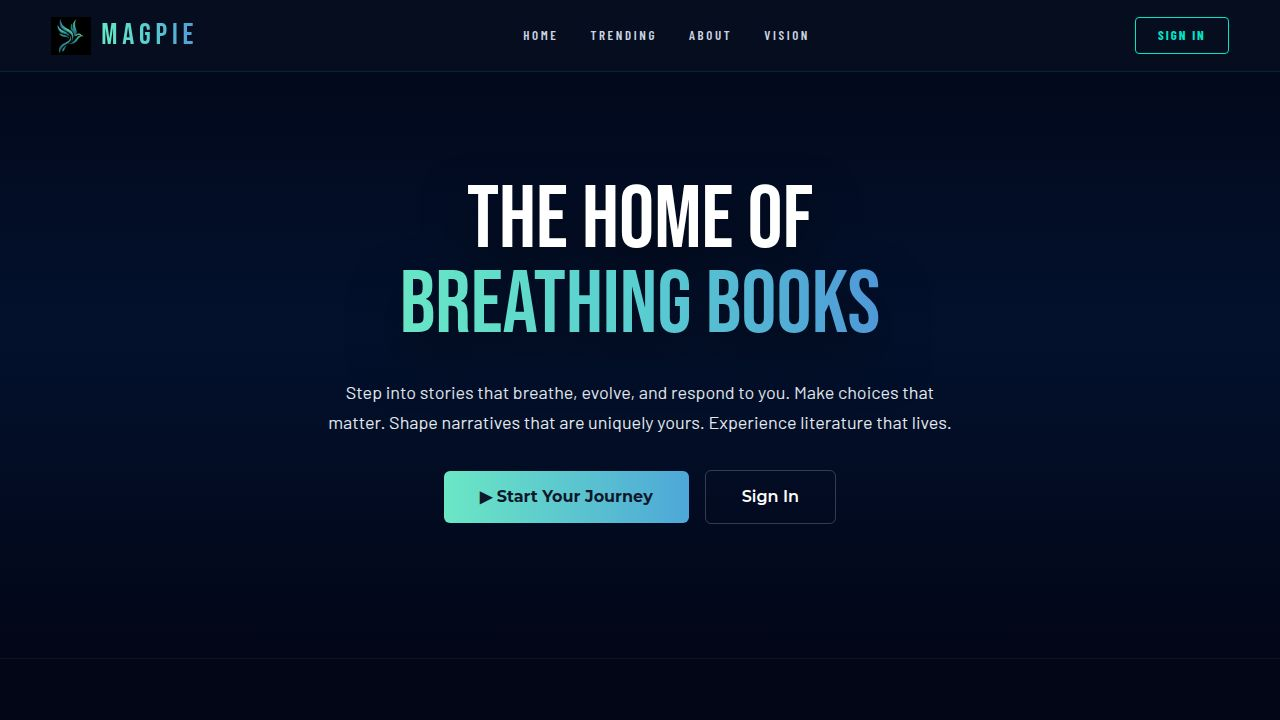
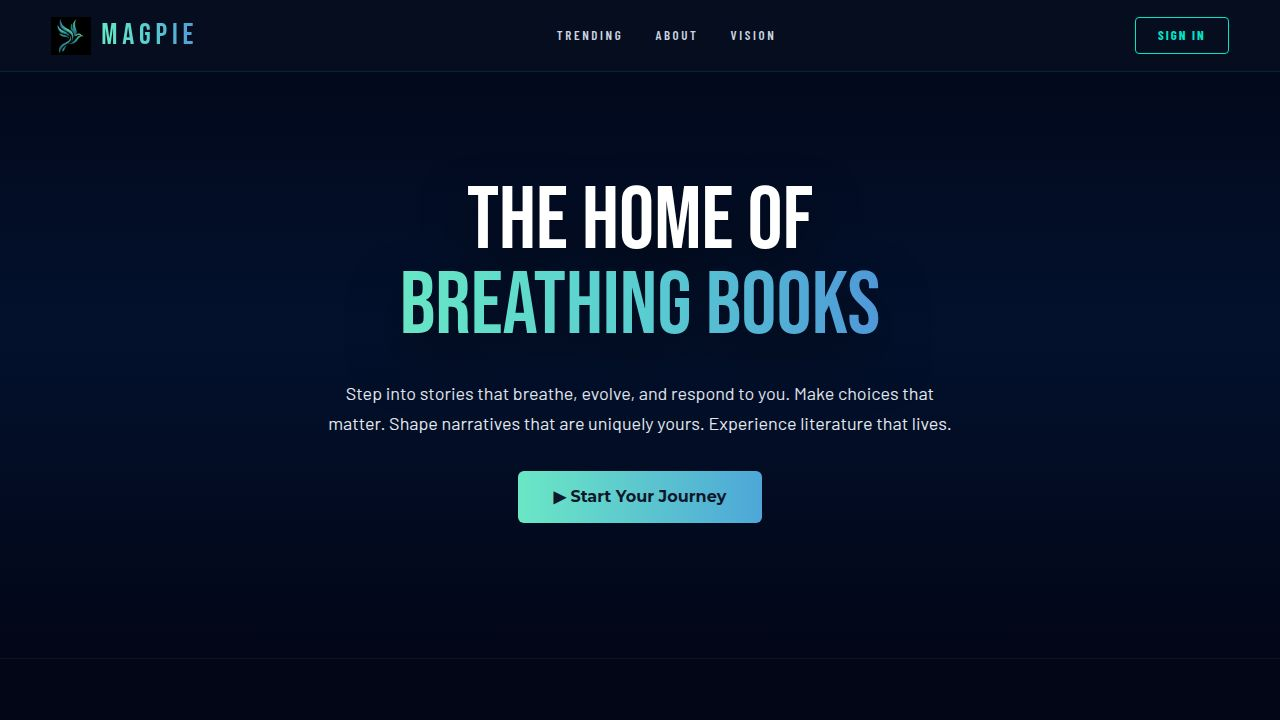
Update application port to improve preview loading and reliability
Update `artifact.toml` to change the application port from 24343 to 5000, resolving an issue where the preview was not loading due to an unsupported port.

Replit-Commit-Author: Agent
Replit-Commit-Session-Id: 26da8755-b7ae-4e0b-9bc2-f99bb690bb86
Replit-Commit-Checkpoint-Type: full_checkpoint
Replit-Commit-Event-Id: be414008-8c72-4853-94e0-64a453b1c096
Replit-Commit-Screenshot-Url: https://storage.googleapis.com/screenshot-production-us-central1/94d309d1-2d2d-47f0-b876-683d52cbe7a4/26da8755-b7ae-4e0b-9bc2-f99bb690bb86/uTkPOMZ
Replit-Helium-Checkpoint-Created: true

diff --git a/artifacts/api-server/src/lib/ai-story.ts b/artifacts/api-server/src/lib/ai-story.ts
@@ -1,7 +1,15 @@
 // ai-story.ts
-// Story continuation engine — calls the Anthropic Claude API to generate the next scene
-// based on the reader's choice, story world context, and previous scenes.
-// Implements the 4-Layer Prompt System from the story-continuation skill.
+// Story continuation engine — calls the Anthropic Claude API to generate the next scene.
+//
+// Cost optimizations applied:
+//  1. PROMPT CACHING — the large static system prompt (continuation directive + story bible)
+//     is marked with cache_control so it's only billed at 10% on cache hits.
+//  2. STORY SUMMARY — instead of passing raw transcript, we maintain a rolling compressed
+//     summary (~150 words) + only the immediately previous scene (~600 words).
+//     This keeps the user-message token count flat across a long playthrough.
+//  3. SPLIT SYSTEM PROMPT — static content is in one cached block; dynamic
+//     (arc position, late-game flags) is in a second un-cached block so the cache
+//     key stays stable for every call that shares the same story.
 
 import Anthropic from "@anthropic-ai/sdk";
 import { logger } from "./logger";
@@ -9,6 +17,10 @@ import { getStoryById, storiesData } from "./stories-data";
 
 const anthropic = new Anthropic();
 // Uses ANTHROPIC_API_KEY from environment automatically
+
+// ─────────────────────────────────────────────────────────────
+// Public types
+// ─────────────────────────────────────────────────────────────
 
 export interface Choice {
   id: string;
@@ -25,6 +37,15 @@ export interface StoryState {
     | "converging"
     | "climax"
     | "resolution";
+
+  // Rolling compressed summary of all scenes so far (kept ≤ 200 words by Claude).
+  // Replaces raw transcript to keep token cost flat across long playthroughs.
+  rollingSummary: string;
+
+  // The prose of only the most recent scene (for voice continuity).
+  // We do NOT accumulate all previous scenes — just the last one.
+  lastSceneProse: string;
+
   choicesMade: Array<{ turn: number; label: string; consequenceNote: string }>;
   relationshipStates: Record<string, string>;
   worldStateChanges: string[];
@@ -39,9 +60,9 @@ export interface GeneratedSegment {
   storyState: StoryState;
 }
 
-// ─────────────────────────────────────────────
-// Story lookup — accepts story ID or exact title
-// ─────────────────────────────────────────────
+// ─────────────────────────────────────────────────────────────
+// Story lookup
+// ─────────────────────────────────────────────────────────────
 
 function resolveStory(storyIdOrTitle: string) {
   const byId = getStoryById(storyIdOrTitle);
@@ -59,10 +80,9 @@ function resolveStory(storyIdOrTitle: string) {
   return getStoryById(slug) || null;
 }
 
-// ─────────────────────────────────────────────
+// ─────────────────────────────────────────────────────────────
 // Arc position derived from turn number
-// (matches skill's arc position guide)
-// ─────────────────────────────────────────────
+// ─────────────────────────────────────────────────────────────
 
 function deriveArcPosition(nodeIndex: number): StoryState["arcPosition"] {
   const turn = nodeIndex + 1;
@@ -74,10 +94,14 @@ function deriveArcPosition(nodeIndex: number): StoryState["arcPosition"] {
   return "resolution";
 }
 
-// ─────────────────────────────────────────────
-// Layer 3 — Continuation Directive
-// Embedded from references/continuation-directive.md
-// ─────────────────────────────────────────────
+// ─────────────────────────────────────────────────────────────
+// BLOCK 1 (CACHED) — Story bible + continuation directive
+//
+// This block is IDENTICAL for every continuation call on the
+// same story, so it will hit the cache after the first request.
+// At ~1 000–1 500 tokens it saves ~90% on those tokens from
+// the second request onward.
+// ─────────────────────────────────────────────────────────────
 
 const CONTINUATION_DIRECTIVE = `
 ## Continuation Directive (Core Writing Instruction)
@@ -131,52 +155,30 @@ Structure every scene in three beats:
 - Generic world details that could appear in any story.
 - Choices that are really the same choice.
 - Choices that ignore the current scene.
+
+### Pacing Over Multiple Scenes
+- Scenes 1–2: Establish world, characters, tone
+- Scenes 3–4: Deepen, complicate, reveal
+- Scenes 5–6: Converge, escalate, approach climax
+- Scene 7+: Resolution arc — choices begin to close loops rather than open them
 `;
 
-// ─────────────────────────────────────────────
-// Build the system prompt (Layers 1 + 3)
-// ─────────────────────────────────────────────
-
-function buildSystemPrompt(
+function buildCachedSystemBlock(
   storyTitle: string,
   storyGenre: string,
   worldContext: string | undefined,
-  arcPosition: StoryState["arcPosition"],
-  isLateGame: boolean,
-  mayEnd: boolean,
 ): string {
   const worldContextBlock = worldContext
-    ? `\n## LAYER 1 — STORY BIBLE (IMMUTABLE CANON — never contradict this)\n${worldContext}\n`
+    ? `\n## STORY BIBLE (IMMUTABLE CANON — never contradict this)\n${worldContext}\n`
     : "";
-
-  const pacingGuide: Record<StoryState["arcPosition"], string> = {
-    opening:
-      "Ground the reader, establish world feel. Direction-based choices, low stakes.",
-    establishing:
-      "Introduce key characters and tensions. Values-based choices, beginning to diverge.",
-    deepening:
-      "Complicate, reveal, deepen relationships. Higher stakes, more morally textured choices.",
-    converging:
-      "Threads start to collide, pressure rises. Dilemma-based choices with real trade-offs.",
-    climax:
-      "Peak intensity, major consequences. Hard choices with no clean options.",
-    resolution:
-      "Loops close, consequences land. Choices resolve rather than open.",
-  };
 
   return `You are a master storyteller powering "Magpie — The Home of Breathing Books", an interactive choice-based reading platform.
 
 STORY: "${storyTitle}" (Genre: ${storyGenre})
 ${worldContextBlock}
-
-## LAYER 3 — CONTINUATION DIRECTIVE
 ${CONTINUATION_DIRECTIVE}
 
-## CURRENT ARC POSITION: ${arcPosition.toUpperCase()}
-Pacing guide for this position: ${pacingGuide[arcPosition]}
-${isLateGame ? "⚠ This is the late game — choices must feel higher stakes, the plot is accelerating toward resolution." : ""}
-
-## LAYER 4 — OUTPUT FORMAT
+## OUTPUT FORMAT
 Respond ONLY with a valid JSON object. No markdown fences, no preamble. Schema:
 
 {
@@ -203,6 +205,7 @@ Respond ONLY with a valid JSON object. No markdown fences, no preamble. Schema:
   ],
   "isEnding": false,
   "storyStateUpdate": {
+    "rollingSummary": "Updated compressed summary of the whole story so far (≤ 200 words). Merge the previous summary with what just happened. Preserve: key events, character relationship states, world changes, planted threads.",
     "relationshipStates": { "CharacterName": "current dynamic in ~10 words" },
     "worldStateChanges": ["what changed this turn"],
     "plantedThreads": ["new detail/hint dropped that should pay off later"],
@@ -216,59 +219,98 @@ CHOICE RULES:
 - No choice should be obviously superior
 - At least one choice must feel unexpected or surprising
 - Every choice must reference specific details from the current scene
-- Format: "You [action verb]..." — second person, present tense, concrete physical or social action
-
-${mayEnd ? 'If the story has reached a satisfying conclusion, set "isEnding": true and omit choices.' : ""}
-`;
+- Format: "You [action verb]..." — second person, present tense, concrete physical or social action`;
 }
 
-// ─────────────────────────────────────────────
-// Build the user message (Layer 2 — Story State)
-// ─────────────────────────────────────────────
+// ─────────────────────────────────────────────────────────────
+// BLOCK 2 (NOT CACHED) — Dynamic per-call system instructions
+//
+// Arc position and late-game flags change each turn, so they
+// must live outside the cached block to avoid poisoning the
+// cache key for all other calls.
+// ─────────────────────────────────────────────────────────────
+
+const pacingGuide: Record<StoryState["arcPosition"], string> = {
+  opening:
+    "Ground the reader, establish world feel. Direction-based choices, low stakes.",
+  establishing:
+    "Introduce key characters and tensions. Values-based choices, beginning to diverge.",
+  deepening:
+    "Complicate, reveal, deepen relationships. Higher stakes, more morally textured choices.",
+  converging:
+    "Threads start to collide, pressure rises. Dilemma-based choices with real trade-offs.",
+  climax:
+    "Peak intensity, major consequences. Hard choices with no clean options.",
+  resolution:
+    "Loops close, consequences land. Choices resolve rather than open.",
+};
+
+function buildDynamicSystemBlock(
+  arcPosition: StoryState["arcPosition"],
+  isLateGame: boolean,
+  mayEnd: boolean,
+): string {
+  return `## CURRENT ARC POSITION: ${arcPosition.toUpperCase()}
+Pacing guide: ${pacingGuide[arcPosition]}
+${isLateGame ? "⚠ LATE GAME — choices must feel higher stakes; plot is accelerating toward resolution." : ""}
+${mayEnd ? 'If the story has reached a satisfying conclusion, set "isEnding": true and omit choices.' : ""}`;
+}
+
+// ─────────────────────────────────────────────────────────────
+// User message — uses rolling summary instead of full transcript
+//
+// Token cost breakdown per call (approx):
+//   Static system block  ~1 200 tokens  → 120 tokens on cache hit (10%)
+//   Dynamic system block ~  100 tokens  → always billed
+//   User message         ~  600 tokens  → always billed (summary + last scene + choice)
+//   Output               ~1 000 tokens  → always billed
+//
+// Compare to the original approach (full transcript):
+//   Turn 10 transcript could be 8 000+ tokens input. With summary it stays ~600.
+// ─────────────────────────────────────────────────────────────
 
 function buildUserMessage(
-  previousContext: string,
   choiceMade: string,
   nodeIndex: number,
   storyState: StoryState | null,
 ): string {
   const storyStateBlock = storyState
-    ? `
-## LAYER 2 — STORY STATE (living memory — use this, not the raw transcript)
+    ? `## STORY STATE (use this as ground truth — do not contradict it)
 Turn: ${storyState.turn}
 Arc position: ${storyState.arcPosition}
-Choices made:
-${storyState.choicesMade.map((c) => `  - Turn ${c.turn}: "${c.label}" → ${c.consequenceNote}`).join("\n")}
+
+Story so far (compressed summary — all key events, characters, world changes):
+${storyState.rollingSummary}
+
 Relationship states:
 ${Object.entries(storyState.relationshipStates)
   .map(([name, state]) => `  - ${name}: ${state}`)
   .join("\n")}
-World state changes:
-${storyState.worldStateChanges.map((w) => `  - ${w}`).join("\n")}
-Planted threads:
+
+Planted threads (pay off at least one if appropriate):
 ${storyState.plantedThreads.map((t) => `  - ${t}`).join("\n")}
+
 Active tensions:
 ${storyState.activeTensions.map((t) => `  - ${t}`).join("\n")}
+
+## Previous scene (for voice continuity only — do NOT recap it):
+${storyState.lastSceneProse}
 `
-    : "";
+    : "## First continuation — no previous state yet.\n";
 
   return `${storyStateBlock}
-## Previous story context (last 1–2 scenes for voice continuity):
-${previousContext}
-
 ## The reader chose: "${choiceMade}"
 
-Story beat ${nodeIndex + 1}. Continue the story based on this choice. Apply all four layers. Write the next scene now.`;
+Story beat ${nodeIndex + 1}. Write the next scene. Honour the choice, advance the story, end at a new decision point. Remember to update rollingSummary in storyStateUpdate.`;
 }
 
-// ─────────────────────────────────────────────
+// ─────────────────────────────────────────────────────────────
 // generateStorySegment — main export
-// ─────────────────────────────────────────────
+// ─────────────────────────────────────────────────────────────
 
 export async function generateStorySegment(
   storyIdOrTitle: string,
   genre: string,
-  previousContext: string,
   choiceMade: string,
   nodeIndex: number,
   currentStoryState: StoryState | null = null,
@@ -280,29 +322,59 @@ export async function generateStorySegment(
   const isLateGame = nodeIndex >= 12;
   const mayEnd = nodeIndex >= 18;
 
-  const systemPrompt = buildSystemPrompt(
-    storyTitle,
-    storyGenre,
-    story?.worldContext,
-    arcPosition,
-    isLateGame,
-    mayEnd,
-  );
+  // ── Prompt caching: split system into two content blocks ──
+  //
+  // Block 1: large static block → marked cache_control: ephemeral
+  //   Anthropic caches everything up to this breakpoint.
+  //   On cache hit, these ~1 200 tokens cost ~120 tokens (10%).
+  //
+  // Block 2: small dynamic block → NOT cached
+  //   Changes every turn so must stay outside the cache key.
+
+  const systemBlocks: Anthropic.Beta.PromptCaching.PromptCachingBetaTextBlockParam[] =
+    [
+      {
+        type: "text",
+        text: buildCachedSystemBlock(
+          storyTitle,
+          storyGenre,
+          story?.worldContext,
+        ),
+        cache_control: { type: "ephemeral" }, // ← cache breakpoint
+      },
+      {
+        type: "text",
+        text: buildDynamicSystemBlock(arcPosition, isLateGame, mayEnd),
+        // No cache_control here — this block changes every turn
+      },
+    ];
 
   const userMessage = buildUserMessage(
-    previousContext,
     choiceMade,
     nodeIndex,
     currentStoryState,
   );
 
   try {
-    const message = await anthropic.messages.create({
+    const message = await anthropic.beta.promptCaching.messages.create({
       model: "claude-sonnet-4-20250514",
       max_tokens: 2048,
-      system: systemPrompt,
+      system: systemBlocks,
       messages: [{ role: "user", content: userMessage }],
     });
+
+    // Log cache performance so you can verify savings in dev
+    const usage =
+      message.usage as Anthropic.Beta.PromptCaching.PromptCachingBetaUsage;
+    logger.info(
+      {
+        input_tokens: usage.input_tokens,
+        cache_read_input_tokens: usage.cache_read_input_tokens ?? 0,
+        cache_creation_input_tokens: usage.cache_creation_input_tokens ?? 0,
+        output_tokens: usage.output_tokens,
+      },
+      "Claude API usage (cache_read > 0 means savings are active)",
+    );
 
     const content = message.content[0];
     if (content.type !== "text" || !content.text) {
@@ -317,11 +389,27 @@ export async function generateStorySegment(
 
     const parsed = JSON.parse(cleaned);
 
-    // Build updated story state from Claude's response + existing state
+    // ── Build updated story state ──────────────────────────────
+    //
+    // rollingSummary comes back from Claude (it merged the previous
+    // summary + this turn's events). We store ONLY the new scene
+    // prose as lastSceneProse — not the accumulation — so the
+    // user-message stays bounded.
+
     const turnNumber = nodeIndex + 1;
     const updatedStoryState: StoryState = {
       turn: turnNumber,
       arcPosition,
+
+      // Claude-generated compressed summary (≤ 200 words, all history)
+      rollingSummary:
+        parsed.storyStateUpdate?.rollingSummary ||
+        currentStoryState?.rollingSummary ||
+        "",
+
+      // Only the scene we just generated — NOT the full history
+      lastSceneProse: parsed.narrativeText || "",
+
       choicesMade: [
         ...(currentStoryState?.choicesMade || []),
         {